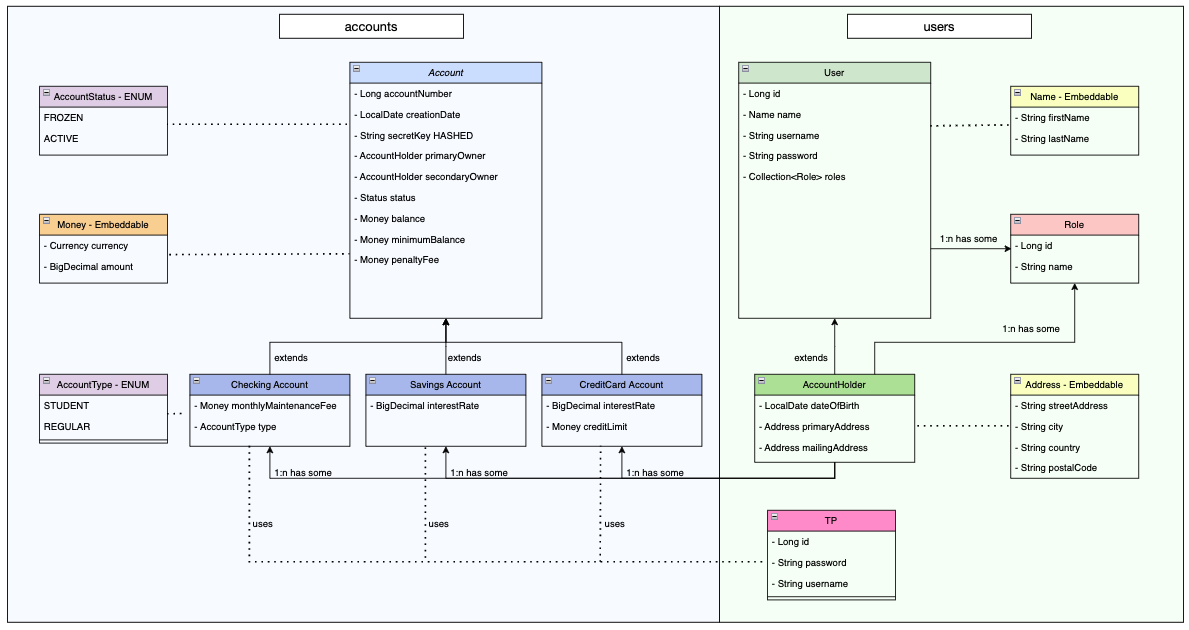
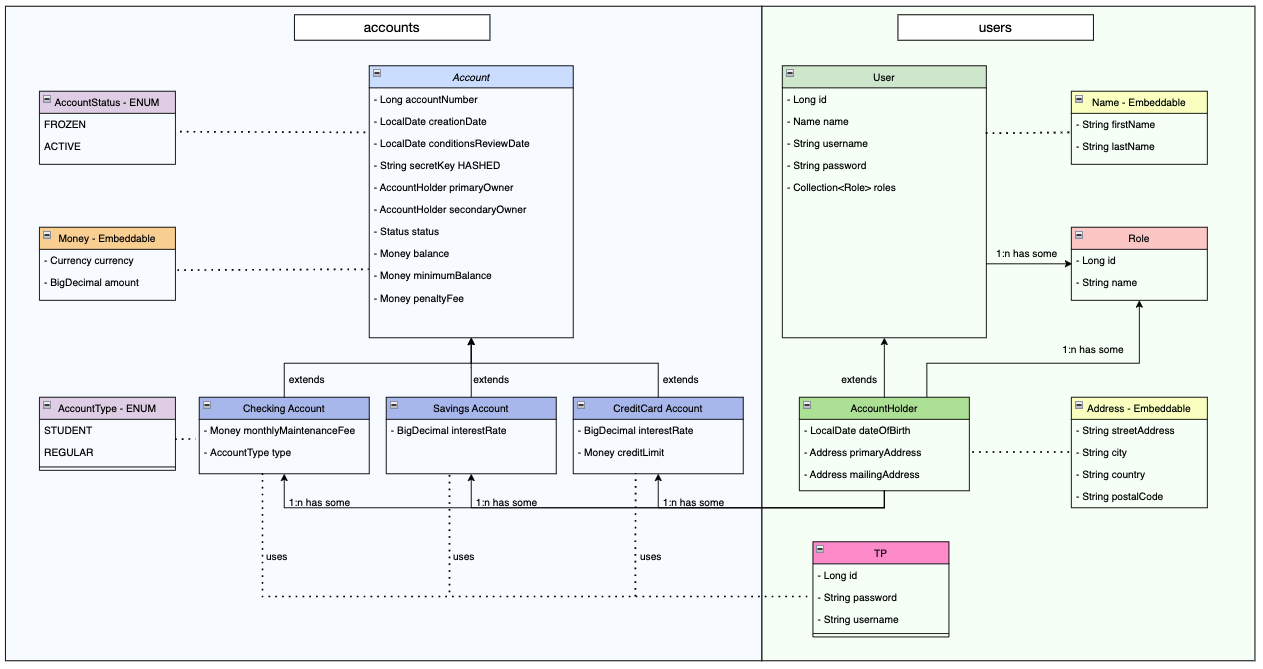
Updates readme and images

diff --git a/README.md b/README.md
@@ -144,6 +144,7 @@ Once the owner becomes 24, conditions will be updated and maintenance fee will b
    **Properties:**  <br/>
     - Long accountNumber ---> Generated Value  <br/>
     - LocalDate creationDate ---> set by constructor  as the current date  <br/>
+    - LocalDate conditionsReviewDate ---> set by constructor  as the current date  <br/>
     - String secretKey ---> HASHED KEY (encrypted before being saved in the DB) + Not Empty validation  <br/>
     - AccountHolder primaryOwner ---> User Class > AccountHolder Class (OneToOne relation) + Not Null validation  <br/>
     - AccountHolder secondaryOwner ---> User Class > AccountHolder Class (OneToOne relation) + not required  <br/>
@@ -165,7 +166,8 @@ Once the owner becomes 24, conditions will be updated and maintenance fee will b
     - getOwnerFromAuthentication() <br/>
     - checkPenaltyAlreadyApplied() <br/>
     - applyPenaltyFeeIfApplicable() <br/>
-    - checkInterestRates() <br/>
+    - checkConditions() <br/>
+    - checkFundsAndCredit() <br/>
 
    ## Checking Account class
    ### Child class
@@ -193,7 +195,6 @@ Once the owner becomes 24, conditions will be updated and maintenance fee will b
    **Included in table:** Account <br/>
    **Properties:**  <br/>
     - BigDecimal interestRate ---> Decimal max + Decimal min validation <br/>
-    - LocalDate interestReviewDate  ---> set by constructor  as the current date <br/>
     <br/>
    **Conditions:**  <br/>
     - Default interestRate of 0.0025 ---> Constructor overloading + chaining <br/>
@@ -212,7 +213,6 @@ Once the owner becomes 24, conditions will be updated and maintenance fee will b
    **Included in table:** Account <br/>
    **Properties:**  <br/>
     - BigDecimal interestRate ---> Decimal max + Decimal min validation <br/>
-    - LocalDate interestReviewDate  ---> set by constructor  as the current date <br/>
     - Money creditLimit ---> Embedded <br/>
     <br/>
    **Conditions:**  <br/>
